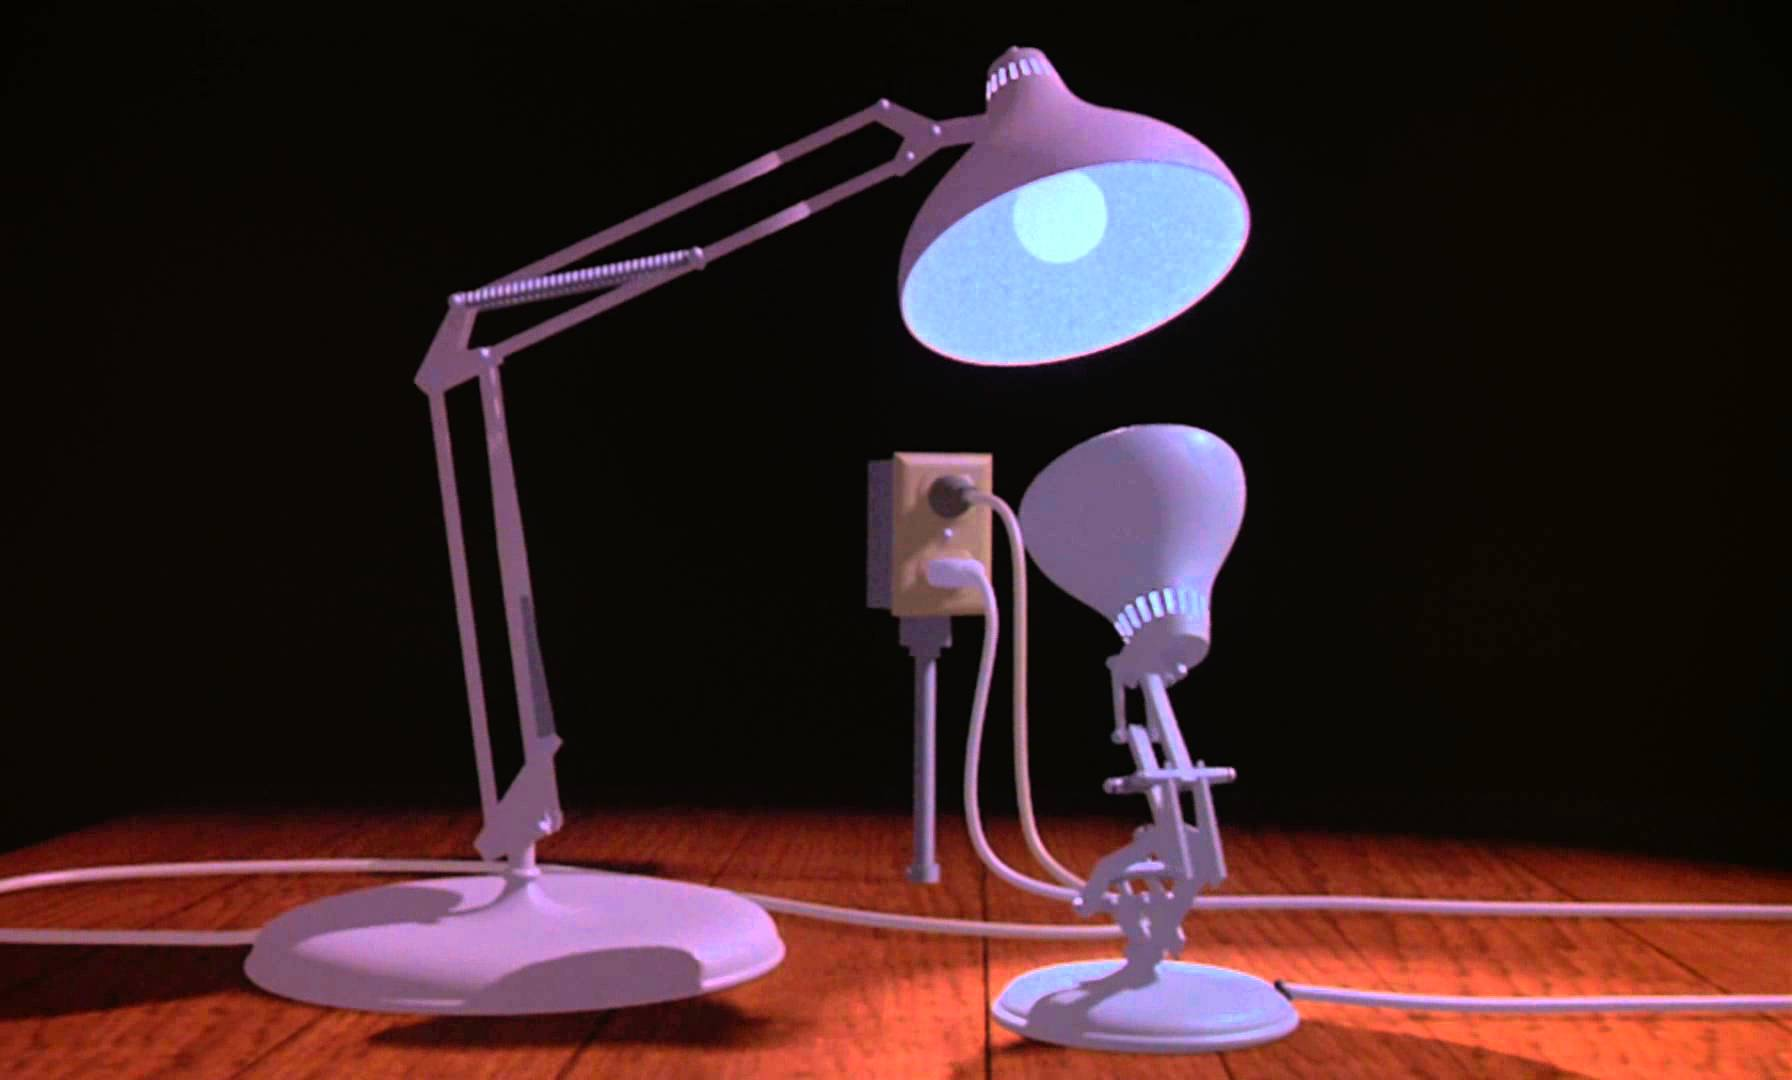
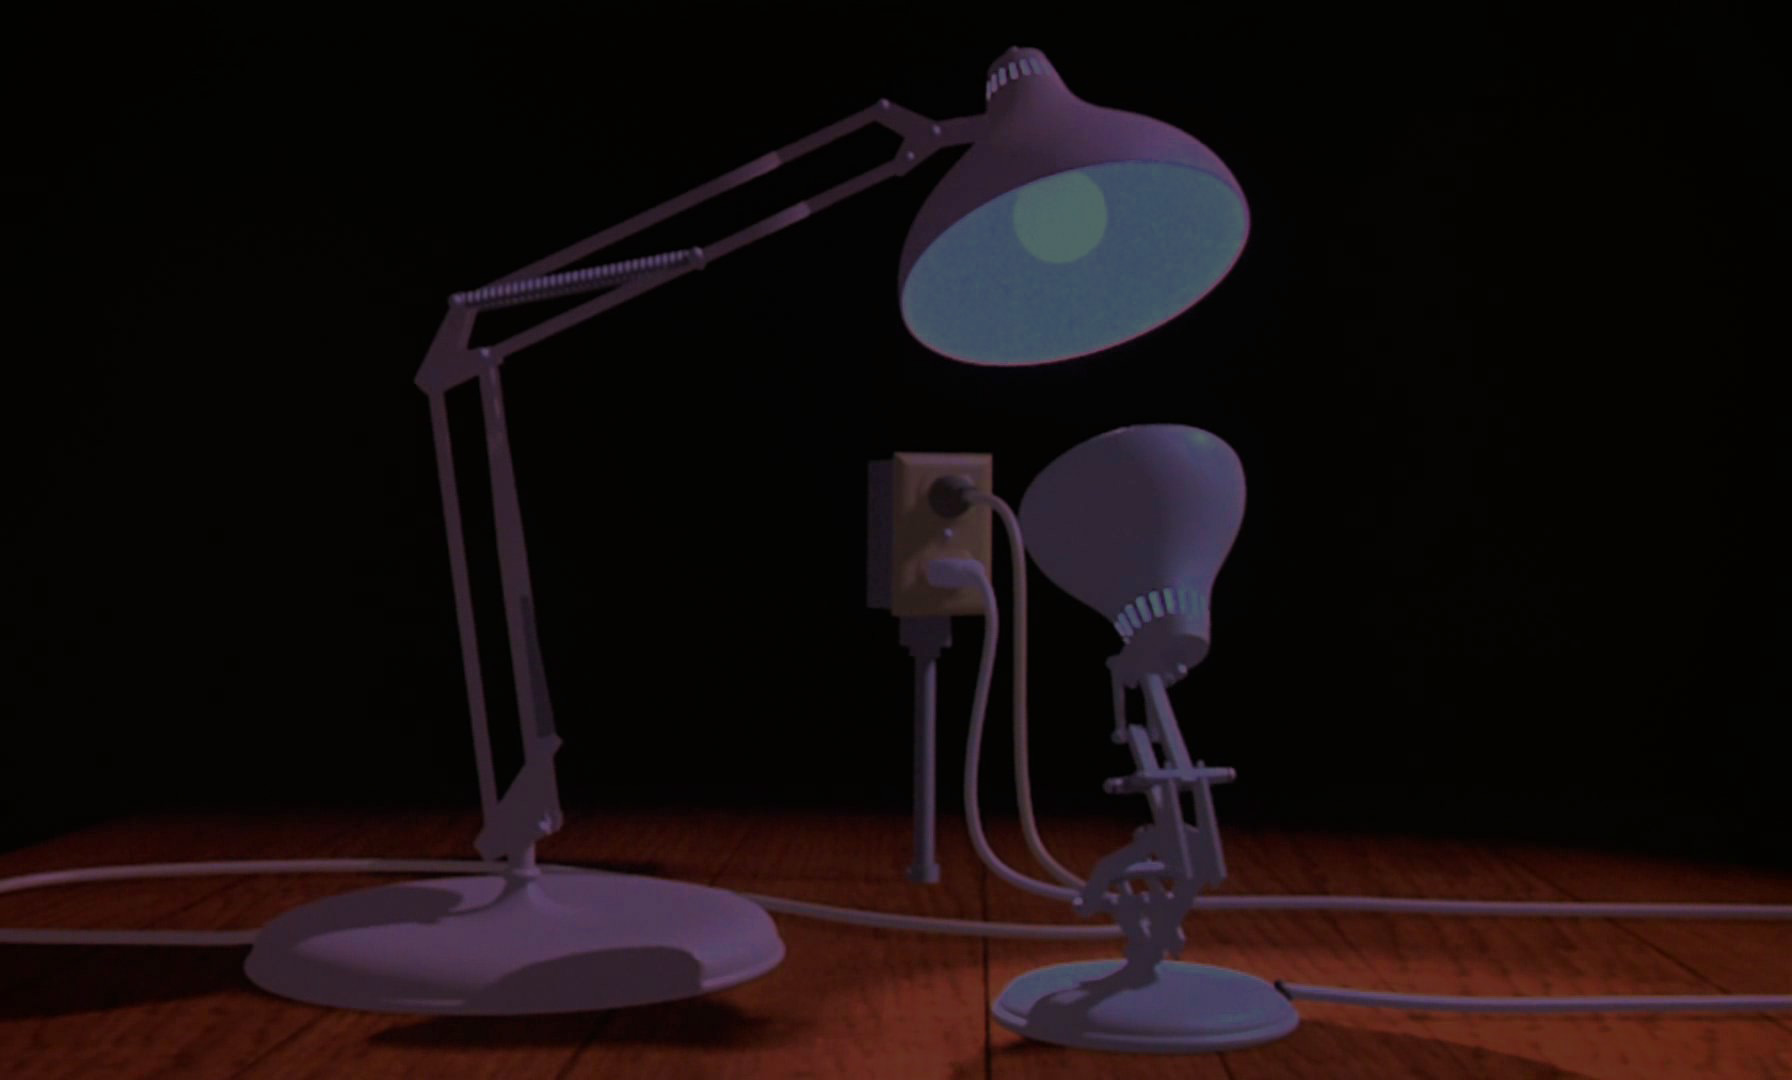
darken the intro bg images

diff --git a/shaderbox/main.css b/shaderbox/main.css
@@ -16,15 +16,6 @@
     margin: 0;
 }
 
-/* shading drawing */
-.reveal .slide-background:nth-of-type(5) {
-    opacity: .2 !important;
-}
-/* pixar luxo */
-.reveal .slide-background:nth-child(6) {
-    opacity: .2 !important;
-}
-
 section[data-state="commute"] p {
     background-color: #222222
 }
